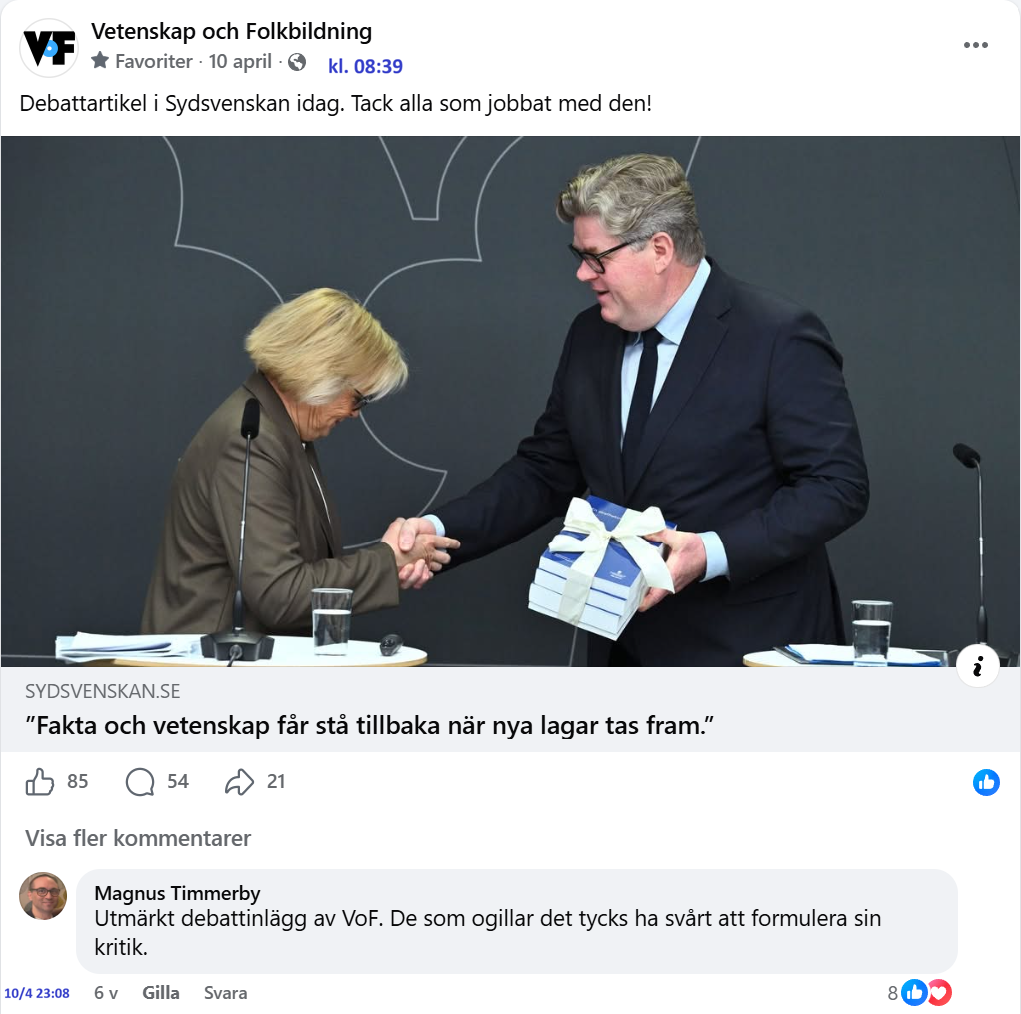
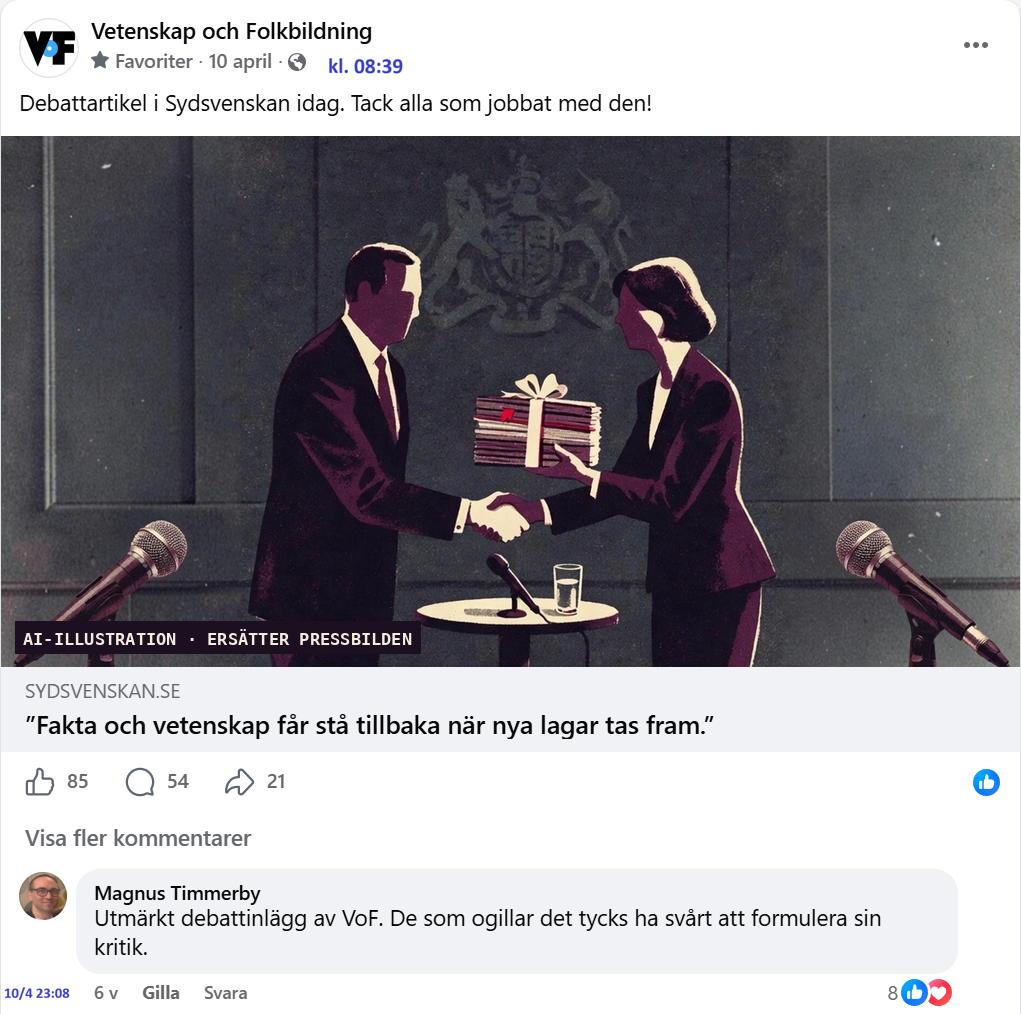
Byt pressbilden i facebookskärmdumpen mot AI-illustrationen, länka Folkvett-artikeln
Claude-Session: https://claude.ai/code/session_01EU1FaJqTG5NajYSy3eXL2p

diff --git a/losa/fb-vof-kommentarstrad-sds.html b/losa/fb-vof-kommentarstrad-sds.html
@@ -426,7 +426,7 @@
     </div>
     <div class="post-body">
       <img src="img/FB-VOF-0-2026-04-10-kl0839.png"
-           alt="Skärmdump: Vetenskap och Folkbildnings facebookinlägg 10 april 2026 med länk till debattartikeln i Sydsvenskan."
+           alt="Skärmdump: Vetenskap och Folkbildnings facebookinlägg 10 april 2026 med länk till debattartikeln i Sydsvenskan. Länkens pressbild är ersatt av en stiliserad AI-illustration av en överlämning vid en presskonferens."
            class="post-img">
       <p>Debattartikel i Sydsvenskan idag. Tack alla som jobbat med den!</p>
       <p class="post-link-label">SYDSVENSKAN.SE</p>
@@ -1156,7 +1156,7 @@
 
   <footer class="doc-foot">
     <p>Transkribering av kommentarsfältet under VoF:s facebookinlägg 10 april 2026. Källa: <a href="https://www.facebook.com/vetenskap/posts/pfbid02c89168A6pzemZvx2K6nnfoSTgNsV4S75JYnRcdtQgfhjA8a1Yp2941qd8ikLKpiBl">facebook.com/vetenskap</a>. Transkriberat av Lotten Kalenius, 27 maj 2026, kontrollerat 27 juli 2026.</p>
-    <p>Tidsstämplarna är avstämda mot en maskinell insamling ur Facebooks egna data 16 september 2026. Privatpersoner återges med förnamn (och initial där två delar förnamn); föreningens företrädare och offentliga debattörer står med fullständigt namn.</p>
+    <p>Tidsstämplarna är avstämda mot en maskinell insamling ur Facebooks egna data 16 september 2026. Länkens pressbild (Claudio Bresciani/TT) är i skärmdumpen ersatt av en illustration genererad med Seedream 5.0 Pro och utvidgad till 16:9 i Picsart; den föreställer inga verkliga personer. Privatpersoner återges med förnamn (och initial där två delar förnamn); föreningens företrädare och offentliga debattörer står med fullständigt namn.</p>
   </footer>
 
 </main>

diff --git a/redaktorsnoter/akt3-folkvett-lag-skall-med-vetenskap-byggas.html b/redaktorsnoter/akt3-folkvett-lag-skall-med-vetenskap-byggas.html
@@ -37,7 +37,7 @@
       <h2 id="vad">Vad Folkvett publicerade</h2>
       <p>Rubriken anspelar på Karl XV:s valspråk ”Land skall med lag byggas”, som också inleder artikeln, och uppslaget illustreras med ett porträtt av kungen. Texten i övrigt är den som refereras i <a href="akt1-sydsvenskan-10-april.html">akt I</a>: lagar bör bygga på fakta och vetenskap, Straffreformutredningen som huvudexempel, och en uppmaning till framtida regeringar att låta vetenskapen vägleda lagstiftningen. Den längre versionen har dessutom notapparat och avslutas med en kort presentation av föreningen.</p>
       <p>Artikeln är undertecknad av Lina Tebbla, ordförande, Amalia Juneström, sekreterare, samt Albin Larsson och Mikael Andersson, styrelseledamöter.</p>
-      <a class="go" href="https://folkvett.vof.se/">Folkvett på folkvett.vof.se</a>
+      <a class="go" href="https://folkvett.vof.se/p/folkvett/folkvett-2026-1/r/1/1/6779/2413594">Läs artikeln i Folkvett 2026:1</a>
     </section>
 
     <section class="akt-section" aria-labelledby="noter">
